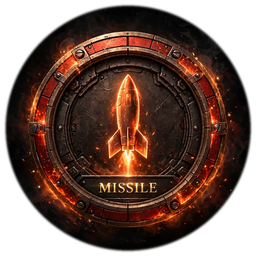
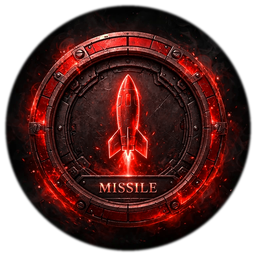
Button colors (Jay, 2026-10-14): Leap TRUE ORANGE, Charge/Missile TRUE RED
1. Leap: the whole emerald medallion palette becomes orange in the leapSkill block — face radial #ffb347/#ff7300/#c25100/#571f00, rim rings #8a3c00 + #ff8c1a, tick ring #ffd9a8, sweep and cooldown arc in orange (SVG strokes #ffa03c), icon glow and ready pulse orange. Gold LEAP label unchanged.
2. Charge + Missile: their faces are baked PNG art, so btn-melee.png and btn-missile.png were hue-mapped from the gold/orange band onto the red band (structure, shading, alpha preserved; originals backed up in ~/workspace/tk-button-art/). Gold/orange SVG arc strokes -> red; a final buttonRecolor style block retints the late-cascade rim rings, glows, ready filters, and both ready-pulse keyframes to red.

Manifest regenerated: 412 assets, build 773fb22cb8, html 0f19f12a11; full harness suite green.

diff --git a/www/index.html b/www/index.html
@@ -5011,24 +5011,24 @@ img{pointer-events:none!important}
 #seasonScreen .tier-cell button{width:auto;margin:0;padding:5px 9px;font-size:11px;white-space:nowrap;border-radius:7px;flex:0 0 auto}
 </style><style id="leapSkill">
 #leapBtn.leap-button{--cd:0%;--cdN:0;position:relative;width:74px;height:74px;border:0;border-radius:50%;padding:0;cursor:pointer;isolation:isolate;color:#eafff5;flex:0 0 auto;
-background:radial-gradient(circle at 50% 32%,#3a5c4a 0%,#1d3426 45%,#0b1810 75%,#050b07 100%);
-box-shadow:0 0 0 1px #05070a,0 0 0 2px #2e5e48,0 0 0 3px #57e6a9,0 0 0 4px #2e5e48,0 0 0 5px #0a0c10,0 9px 20px rgba(0,0,0,.75),0 0 30px rgba(87,230,169,.12),inset 0 1px 3px rgba(220,255,240,.15),inset 0 -4px 9px rgba(0,0,0,.6);
+background:radial-gradient(circle at 50% 32%,#ffb347 0%,#ff7300 45%,#c25100 75%,#571f00 100%);
+box-shadow:0 0 0 1px #05070a,0 0 0 2px #8a3c00,0 0 0 3px #ff8c1a,0 0 0 4px #8a3c00,0 0 0 5px #0a0c10,0 9px 20px rgba(0,0,0,.75),0 0 30px rgba(255,115,0,.16),inset 0 1px 3px rgba(255,230,200,.18),inset 0 -4px 9px rgba(0,0,0,.6);
 overflow:visible}
 #leapBtn.leap-button::before{content:"";position:absolute;inset:5%;border-radius:50%;z-index:4;pointer-events:none;
-background:repeating-conic-gradient(from 0deg,#c8ffe6 0deg 4deg,rgba(0,0,0,0) 4deg 30deg);
+background:repeating-conic-gradient(from 0deg,#ffd9a8 0deg 4deg,rgba(0,0,0,0) 4deg 30deg);
 -webkit-mask:radial-gradient(circle,transparent 88%,#000 88.5%,#000 96%,transparent 96.5%);
 mask:radial-gradient(circle,transparent 88%,#000 88.5%,#000 96%,transparent 96.5%);
 filter:drop-shadow(0 1px 1px rgba(0,0,0,.9))}
 #leapBtn.leap-button::after{content:"";position:absolute;inset:14%;border-radius:50%;z-index:0;pointer-events:none;
-background:repeating-conic-gradient(from 0deg,rgba(87,230,169,.14) 0deg 1deg,transparent 1deg 6deg),radial-gradient(circle,rgba(0,0,0,.5) 0%,transparent 70%);
-border:1px solid rgba(87,230,169,.25);box-shadow:inset 0 0 15px rgba(0,0,0,.8)}
+background:repeating-conic-gradient(from 0deg,rgba(255,140,26,.14) 0deg 1deg,transparent 1deg 6deg),radial-gradient(circle,rgba(0,0,0,.5) 0%,transparent 70%);
+border:1px solid rgba(255,140,26,.28);box-shadow:inset 0 0 15px rgba(0,0,0,.8)}
 #leapBtn .leap-sweep{position:absolute;inset:14%;border-radius:50%;z-index:1;pointer-events:none;
-background:conic-gradient(from 0deg,rgba(125,240,188,.35) 0deg,rgba(125,240,188,.08) 50deg,transparent 90deg);
+background:conic-gradient(from 0deg,rgba(255,170,60,.35) 0deg,rgba(255,170,60,.08) 50deg,transparent 90deg);
 animation:leapSweepSpin 4s linear infinite}
 @keyframes leapSweepSpin{to{transform:rotate(360deg)}}
 #leapBtn .leap-arc{position:absolute;inset:0;width:100%;height:100%;z-index:3;pointer-events:none;transform:rotate(-90deg)}
-#leapBtn .leap-arc-fill{stroke-dasharray:calc(var(--cdN,0)*4.3982) 440;filter:drop-shadow(0 0 3px rgba(125,240,188,.95));transition:stroke-dasharray .2s linear}
-#leapBtn .leap-icon{position:absolute;left:50%;top:38%;transform:translate(-50%,-50%);width:34px;height:34px;z-index:2;opacity:.9;filter:drop-shadow(0 0 6px rgba(87,230,169,.45))}
+#leapBtn .leap-arc-fill{stroke-dasharray:calc(var(--cdN,0)*4.3982) 440;filter:drop-shadow(0 0 3px rgba(255,150,40,.95));transition:stroke-dasharray .2s linear}
+#leapBtn .leap-icon{position:absolute;left:50%;top:38%;transform:translate(-50%,-50%);width:34px;height:34px;z-index:2;opacity:.9;filter:drop-shadow(0 0 6px rgba(255,140,26,.45))}
 #leapBtn .leap-label{position:absolute;left:0;right:0;top:62%;z-index:2;margin:0;text-align:center;font-family:Georgia,'Times New Roman',serif;font-size:11px;font-weight:700;letter-spacing:1.5px;text-indent:0.75px;color:#f0d68a;text-shadow:0 0 8px rgba(240,214,138,.75),0 1px 2px #000,0 -1px 1px rgba(255,255,255,.2)}
 #leapBtn .leap-shine{position:absolute;inset:0;border-radius:50%;z-index:5;pointer-events:none;
 background:linear-gradient(115deg,transparent 40%,rgba(255,255,255,.14) 48%,rgba(255,255,255,.28) 50%,rgba(255,255,255,.14) 52%,transparent 60%);
@@ -5036,9 +5036,9 @@ background-size:250% 250%;animation:leapShine 3.5s ease-in-out infinite}
 @keyframes leapShine{0%,100%{background-position:120% 0}50%{background-position:-20% 0}}
 #leapBtn.leap-button:active{transform:translateY(2px) scale(.97)}
 #leapBtn.leap-button.ready{animation:leapPulse 1.8s ease-in-out infinite}
-@keyframes leapPulse{0%,100%{box-shadow:0 0 0 1px #05070a,0 0 0 2px #2e5e48,0 0 0 3px #57e6a9,0 0 0 4px #2e5e48,0 0 0 5px #0a0c10,0 9px 20px rgba(0,0,0,.75),0 0 30px rgba(87,230,169,.25)}50%{box-shadow:0 0 0 1px #05070a,0 0 0 2px #3d7a5e,0 0 0 3px #c8ffe6,0 0 0 4px #3d7a5e,0 0 0 5px #0a0c10,0 9px 20px rgba(0,0,0,.75),0 0 45px rgba(125,240,188,.55)}}
+@keyframes leapPulse{0%,100%{box-shadow:0 0 0 1px #05070a,0 0 0 2px #8a3c00,0 0 0 3px #ff8c1a,0 0 0 4px #8a3c00,0 0 0 5px #0a0c10,0 9px 20px rgba(0,0,0,.75),0 0 30px rgba(255,115,0,.28)}50%{box-shadow:0 0 0 1px #05070a,0 0 0 2px #a34d00,0 0 0 3px #ffd9a8,0 0 0 4px #a34d00,0 0 0 5px #0a0c10,0 9px 20px rgba(0,0,0,.75),0 0 45px rgba(255,150,40,.55)}}
 #leapBtn.leap-button.ready .leap-sweep{animation-duration:1.5s}
-#leapBtn.leap-button.ready .leap-icon{opacity:1;filter:drop-shadow(0 0 10px rgba(125,240,188,.9))}
+#leapBtn.leap-button.ready .leap-icon{opacity:1;filter:drop-shadow(0 0 10px rgba(255,170,60,.9))}
 #leapBtn.leap-button.cooling{cursor:wait;filter:saturate(.6) brightness(.75)}
 @media(prefers-reduced-motion:reduce){#leapBtn .leap-sweep,#leapBtn .leap-shine,#leapBtn.leap-button.ready{animation:none!important}}
 /* LEAP rig motion: !important animation class — menaceIdle (infinite, on
@@ -5110,6 +5110,18 @@ html.battery-saver #leapBtn .leap-sweep,html.battery-saver #leapBtn .leap-shine,
 #battleScreen .battle-controls #repairBtn .repair-label{font-size:9.5px!important;letter-spacing:.4px!important}
 #battleScreen .battle-controls #repairBtn .repair-cost{font-size:9px!important}
 }
+</style>
+<style id="buttonRecolor">
+/* Button colors (Jay, 2026-10-14): Charge + Missile read TRUE RED. The
+   medallion faces are the recolored btn-melee/btn-missile PNGs; these
+   rules retint the rim rings, glows, and ready pulses that the late
+   cascade blocks left gold/orange. */
+#battleScreen .battle-controls .melee-button{border-color:#ffb3a6!important;box-shadow:0 0 0 1px #0a0302,0 0 0 2px #6e1410,0 0 0 3px #ffb3a6,0 0 0 4px #8c1d14,0 0 0 5px #0a0503,inset 0 2px 3px rgba(255,220,210,.6),inset 0 -6px 10px rgba(0,0,0,.72),inset 0 0 0 1px rgba(0,0,0,.35),0 8px 16px rgba(0,0,0,.78),0 0 28px rgba(255,45,25,.4)!important;filter:drop-shadow(0 0 9px rgba(255,60,35,.5)) drop-shadow(0 3px 6px rgba(0,0,0,.55))!important}
+#battleScreen .battle-controls .missile-button{border-color:#ffb3a6!important;box-shadow:0 0 0 1px #070302,0 0 0 2px #6e1410,0 0 0 3px #ffb3a6,0 0 0 4px #8c1d14,0 0 0 5px #0a0503,inset 0 2px 3px rgba(255,220,210,.58),inset 0 -6px 10px rgba(0,0,0,.72),inset 0 0 0 1px rgba(0,0,0,.35),0 8px 16px rgba(0,0,0,.78),0 0 26px rgba(255,45,25,.38)!important;filter:drop-shadow(0 0 9px rgba(255,60,35,.48)) drop-shadow(0 3px 6px rgba(0,0,0,.55))!important}
+#battleScreen .battle-controls .melee-button.ready{filter:drop-shadow(0 0 17px rgba(255,60,35,.95)) drop-shadow(0 2px 5px rgba(0,0,0,.55))!important}
+#battleScreen .battle-controls .missile-button.ready{filter:drop-shadow(0 0 17px rgba(255,60,35,.95)) drop-shadow(0 2px 5px rgba(0,0,0,.55))!important}
+@keyframes meleePulse67{0%,100%{box-shadow:0 0 0 1px #0a0302,0 0 0 2px #6e1410,0 0 0 3px #ffb3a6,0 0 0 4px #8c1d14,0 0 0 5px #0a0503,inset 0 2px 3px rgba(255,220,210,.6),inset 0 -6px 10px rgba(0,0,0,.72),0 8px 16px rgba(0,0,0,.78),0 0 32px rgba(255,45,25,.48)}50%{box-shadow:0 0 0 1px #0a0302,0 0 0 2px #b03024,0 0 0 3px #ffc9c0,0 0 0 4px #b03024,0 0 0 5px #0a0503,inset 0 2px 3px rgba(255,220,210,.65),inset 0 -6px 10px rgba(0,0,0,.72),0 8px 16px rgba(0,0,0,.78),0 0 50px rgba(255,50,30,.85),0 0 22px rgba(255,120,100,.5)}}
+@keyframes missilePulse67{0%,100%{box-shadow:0 0 0 1px #070302,0 0 0 2px #6e1410,0 0 0 3px #ffb3a6,0 0 0 4px #8c1d14,0 0 0 5px #0a0503,inset 0 2px 3px rgba(255,220,210,.58),inset 0 -6px 10px rgba(0,0,0,.72),0 8px 16px rgba(0,0,0,.78),0 0 30px rgba(255,45,25,.44)}50%{box-shadow:0 0 0 1px #070302,0 0 0 2px #b03024,0 0 0 3px #ffc9c0,0 0 0 4px #b03024,0 0 0 5px #0a0503,inset 0 2px 3px rgba(255,220,210,.62),inset 0 -6px 10px rgba(0,0,0,.72),0 8px 16px rgba(0,0,0,.78),0 0 48px rgba(255,50,30,.85),0 0 20px rgba(255,120,100,.5)}}
 </style>
 
 
@@ -5341,7 +5353,7 @@ html.battery-saver #leapBtn .leap-sweep,html.battery-saver #leapBtn .leap-shine,
   <div id="criticalVignette" class="critical-vignette" aria-hidden="true"></div>
   <div class="battle-controls">
     <div id="playerVitals" class="player-vitals" role="progressbar" aria-label="Your tank health" aria-valuemin="0" aria-valuemax="100" aria-valuenow="100"><div class="player-vitals-head"><span class="player-vitals-title">YOUR TANK <strong id="playerHudName">Bastion</strong></span><span id="playerHpText" class="player-hp-readout">— HP</span></div><div class="player-meter-track"><div id="playerHpGhost" class="player-hp-ghost"></div><div id="playerHpFill" class="player-hp-fill"></div><div id="playerShieldFill" class="player-shield-fill"></div><div class="player-meter-segments" aria-hidden="true"></div><span id="playerShieldText" class="shield-readout" hidden></span><span id="playerDamageBadge" class="player-damage-badge" hidden role="img" aria-label="Tank damaged"><svg viewBox="0 0 24 24" aria-hidden="true"><path d="M12 2l8 3v6c0 5-3.6 9-8 11-4.4-2-8-6-8-11V5z" fill="#2a1708" stroke="#ffe9a8" stroke-width="1.6"/><path d="M9.5 5.5L11.8 10l-3.6 3.8 4.6 1.8L11 20" fill="none" stroke="#ffb52e" stroke-width="1.7" stroke-linecap="round" stroke-linejoin="round"/></svg></span><div class="max-hp-flash"></div></div></div>
-    <div class="control-row"><div class="ctrl-group"><button id="speedBtn" class="ctrl" type="button" data-speed="1" aria-live="polite" aria-label="Game speed, 1 times">Speed ×1</button></div><div class="ability-cluster"><button id="leapBtn" class="leap-button" aria-label="Leap skill"><span class="leap-sweep" aria-hidden="true"></span><svg class="leap-arc" viewBox="0 0 148 148" aria-hidden="true"><circle cx="74" cy="74" r="70" fill="none" stroke="rgba(87,230,169,.18)" stroke-width="5"/><circle class="leap-arc-fill" cx="74" cy="74" r="70" fill="none" stroke="#7df0bc" stroke-width="5" stroke-linecap="round"/></svg><img id="leapIcon" class="leap-icon" alt=""><span class="leap-label">LEAP</span><span class="leap-shine" aria-hidden="true"></span></button><button id="repairBtn" class="repair-button" aria-label="Repair tank" title="Spend Scrap to repair battle damage"><span class="repair-sweep" aria-hidden="true"></span><svg class="repair-arc" viewBox="0 0 148 148" aria-hidden="true"><circle cx="74" cy="74" r="70" fill="none" stroke="rgba(120,240,160,.18)" stroke-width="5"/><circle class="repair-arc-fill" cx="74" cy="74" r="70" fill="none" stroke="#8df5a8" stroke-width="5" stroke-linecap="round"/></svg><img id="repairIcon" class="repair-icon" alt=""><span class="repair-label">REPAIR</span><span id="repairCost" class="repair-cost"></span><span class="repair-shine" aria-hidden="true"></span></button><button id="parryBtn" class="parry-button" aria-label="Parry skill"><span class="parry-sweep" aria-hidden="true"></span><svg class="parry-arc" viewBox="0 0 148 148" aria-hidden="true"><circle cx="74" cy="74" r="70" fill="none" stroke="rgba(111,179,216,.18)" stroke-width="5"/><circle class="parry-arc-fill" cx="74" cy="74" r="70" fill="none" stroke="#8cc8ff" stroke-width="5" stroke-linecap="round"/></svg><span class="parry-label">PARRY</span><span class="parry-shine" aria-hidden="true"></span></button><button id="meleeBtn" class="melee-button" aria-label="Charge attack"><span class="melee-sweep" aria-hidden="true"></span><svg class="melee-arc" viewBox="0 0 148 148" aria-hidden="true"><circle cx="74" cy="74" r="70" fill="none" stroke="rgba(201,143,61,.18)" stroke-width="5"/><circle class="melee-arc-fill" cx="74" cy="74" r="70" fill="none" stroke="#f0b96a" stroke-width="5" stroke-linecap="round"/></svg><span class="melee-label">CHARGE</span><span class="melee-shine" aria-hidden="true"></span></button><button id="missileBtn" class="missile-button" aria-label="Missile strike"><span class="missile-sweep" aria-hidden="true"></span><svg class="missile-arc" viewBox="0 0 148 148" aria-hidden="true"><circle cx="74" cy="74" r="70" fill="none" stroke="rgba(200,80,50,.18)" stroke-width="5"/><circle class="missile-arc-fill" cx="74" cy="74" r="70" fill="none" stroke="#ff8a5c" stroke-width="5" stroke-linecap="round"/></svg><span class="missile-label">MISSILE</span><span class="missile-shine" aria-hidden="true"></span></button><button id="ultBtn" class="ult-button" aria-label="Ultimate skill charging"><span class="ult-sparks" aria-hidden="true"><i></i><i></i><i></i><i></i></span><span class="ult-shockwave" aria-hidden="true"></span><span class="ult-sweep" aria-hidden="true"></span><svg class="ult-arc" viewBox="0 0 148 148" aria-hidden="true"><circle cx="74" cy="74" r="70" fill="none" stroke="rgba(212,175,90,.18)" stroke-width="5"/><circle class="ult-arc-fill" cx="74" cy="74" r="70" fill="none" stroke="#f0d68a" stroke-width="5" stroke-linecap="round"/></svg><span class="ult-label">ULT</span><img id="ultIcon" class="ult-icon" alt=""><span id="ultName" class="ult-name"></span><span id="ultFill" class="ult-fill"></span><span class="ult-shine" aria-hidden="true"></span></button></div></div>
+    <div class="control-row"><div class="ctrl-group"><button id="speedBtn" class="ctrl" type="button" data-speed="1" aria-live="polite" aria-label="Game speed, 1 times">Speed ×1</button></div><div class="ability-cluster"><button id="leapBtn" class="leap-button" aria-label="Leap skill"><span class="leap-sweep" aria-hidden="true"></span><svg class="leap-arc" viewBox="0 0 148 148" aria-hidden="true"><circle cx="74" cy="74" r="70" fill="none" stroke="rgba(255,140,26,.18)" stroke-width="5"/><circle class="leap-arc-fill" cx="74" cy="74" r="70" fill="none" stroke="#ffa03c" stroke-width="5" stroke-linecap="round"/></svg><img id="leapIcon" class="leap-icon" alt=""><span class="leap-label">LEAP</span><span class="leap-shine" aria-hidden="true"></span></button><button id="repairBtn" class="repair-button" aria-label="Repair tank" title="Spend Scrap to repair battle damage"><span class="repair-sweep" aria-hidden="true"></span><svg class="repair-arc" viewBox="0 0 148 148" aria-hidden="true"><circle cx="74" cy="74" r="70" fill="none" stroke="rgba(120,240,160,.18)" stroke-width="5"/><circle class="repair-arc-fill" cx="74" cy="74" r="70" fill="none" stroke="#8df5a8" stroke-width="5" stroke-linecap="round"/></svg><img id="repairIcon" class="repair-icon" alt=""><span class="repair-label">REPAIR</span><span id="repairCost" class="repair-cost"></span><span class="repair-shine" aria-hidden="true"></span></button><button id="parryBtn" class="parry-button" aria-label="Parry skill"><span class="parry-sweep" aria-hidden="true"></span><svg class="parry-arc" viewBox="0 0 148 148" aria-hidden="true"><circle cx="74" cy="74" r="70" fill="none" stroke="rgba(111,179,216,.18)" stroke-width="5"/><circle class="parry-arc-fill" cx="74" cy="74" r="70" fill="none" stroke="#8cc8ff" stroke-width="5" stroke-linecap="round"/></svg><span class="parry-label">PARRY</span><span class="parry-shine" aria-hidden="true"></span></button><button id="meleeBtn" class="melee-button" aria-label="Charge attack"><span class="melee-sweep" aria-hidden="true"></span><svg class="melee-arc" viewBox="0 0 148 148" aria-hidden="true"><circle cx="74" cy="74" r="70" fill="none" stroke="rgba(255,60,40,.18)" stroke-width="5"/><circle class="melee-arc-fill" cx="74" cy="74" r="70" fill="none" stroke="#ff5040" stroke-width="5" stroke-linecap="round"/></svg><span class="melee-label">CHARGE</span><span class="melee-shine" aria-hidden="true"></span></button><button id="missileBtn" class="missile-button" aria-label="Missile strike"><span class="missile-sweep" aria-hidden="true"></span><svg class="missile-arc" viewBox="0 0 148 148" aria-hidden="true"><circle cx="74" cy="74" r="70" fill="none" stroke="rgba(255,50,35,.18)" stroke-width="5"/><circle class="missile-arc-fill" cx="74" cy="74" r="70" fill="none" stroke="#ff4030" stroke-width="5" stroke-linecap="round"/></svg><span class="missile-label">MISSILE</span><span class="missile-shine" aria-hidden="true"></span></button><button id="ultBtn" class="ult-button" aria-label="Ultimate skill charging"><span class="ult-sparks" aria-hidden="true"><i></i><i></i><i></i><i></i></span><span class="ult-shockwave" aria-hidden="true"></span><span class="ult-sweep" aria-hidden="true"></span><svg class="ult-arc" viewBox="0 0 148 148" aria-hidden="true"><circle cx="74" cy="74" r="70" fill="none" stroke="rgba(212,175,90,.18)" stroke-width="5"/><circle class="ult-arc-fill" cx="74" cy="74" r="70" fill="none" stroke="#f0d68a" stroke-width="5" stroke-linecap="round"/></svg><span class="ult-label">ULT</span><img id="ultIcon" class="ult-icon" alt=""><span id="ultName" class="ult-name"></span><span id="ultFill" class="ult-fill"></span><span class="ult-shine" aria-hidden="true"></span></button></div></div>
     <div class="panel-row"><button id="upgradeOpen" class="panel-btn upgrade-btn">Upgrade Tank</button><button id="itemsOpen" class="panel-btn items-btn">Equipment <span id="lootBadge" class="badge">0</span></button><button id="skillsBattleBtn" class="panel-btn skills-btn">Skills</button></div>
     <div class="battle-sub"><div class="auto-chip" data-auto="autoUlt" role="switch" aria-checked="false" aria-label="Auto Ult" tabindex="0"><span class="shine"></span><input id="autoUlt" type="checkbox" aria-label="Auto Ult" hidden><span class="sw" aria-hidden="true"><span class="sw-knob"></span></span><span class="ic" aria-hidden="true"><svg viewBox="0 0 24 24"><path d="M12 1.8l2.3 7.9 7.9 2.3-7.9 2.3L12 22.2l-2.3-7.9L1.8 12l7.9-2.3z"/></svg></span><span class="lb">ULT</span></div><div class="auto-chip" data-auto="autoDef" role="switch" aria-checked="false" aria-label="Auto Parry" tabindex="0"><span class="shine"></span><input id="autoDef" type="checkbox" aria-label="Auto Parry" hidden><span class="sw" aria-hidden="true"><span class="sw-knob"></span></span><span class="ic" aria-hidden="true"><svg viewBox="0 0 24 24"><path d="M12 2 4 5v6c0 5 3.4 9.4 8 11 4.6-1.6 8-6 8-11V5z"/></svg></span><span class="lb">PARRY</span></div><div class="auto-chip" data-auto="autoMissile" role="switch" aria-checked="false" aria-label="Auto Missile" tabindex="0" hidden><span class="shine"></span><input id="autoMissile" type="checkbox" aria-label="Auto Missile" hidden><span class="sw" aria-hidden="true"><span class="sw-knob"></span></span><span class="ic" aria-hidden="true"><svg viewBox="0 0 24 24"><path d="M12 2c3 2 4 6 4 10l3 3-3 1c-1 2-2 4-4 6-2-2-3-4-4-6l-3-1 3-3c0-4 1-8 4-10z"/></svg></span><span class="lb">MISSILE</span></div><div class="auto-chip" data-auto="autoOff" role="switch" aria-checked="false" aria-label="Auto Charge" tabindex="0"><span class="shine"></span><input id="autoOff" type="checkbox" aria-label="Auto Charge" hidden><span class="sw" aria-hidden="true"><span class="sw-knob"></span></span><span class="ic" aria-hidden="true"><svg viewBox="0 0 24 24"><path d="M16.9 3.7l3.4 3.4c.4.4.4 1 0 1.4L9.6 19.2l-4.7 1.3 1.3-4.7L16.9 3.7z"/><path d="M13.6 7l3 3-1.4 1.4-3-3z"/><circle cx="5.4" cy="18.6" r="1.2"/></svg></span><span class="lb">CHARGE</span></div><div class="auto-chip" data-auto="autoAscendBattle" id="autoAscChip" role="switch" aria-checked="false" aria-label="Auto Ascent" tabindex="0" hidden><span class="shine"></span><input id="autoAscendBattle" type="checkbox" aria-label="Auto Ascent" hidden><span class="sw" aria-hidden="true"><span class="sw-knob"></span></span><span class="ic" aria-hidden="true"><svg viewBox="0 0 24 24"><path d="M10 21v-8H8V9H6V5h3V3h6v2h3v4h-2v4h-2v8h-1.5v-4h-1v4H10z"/></svg></span><span class="lb">ASCEND</span></div><span id="dpsText">Auto-fire engaged</span><button id="charBattleBtn" class="secondary" style="padding:5px 9px;font-size:10px">Character</button><div class="battle-menu-cluster" aria-label="Battle utilities"><button id="pauseBtn" class="secondary battle-menu-key" type="button" aria-label="Pause battle">Pause</button></div></div>
   </div>
@@ -5636,8 +5648,8 @@ const assetManifest={
    hand-maintained version tags. On boot the page fetches the manifest with
    cache:'no-store' and hard-reloads once if EITHER the live asset build or the
    live HTML version differs, so a stale cache can never survive a republish. */
-const __BUILD_ID='199db28c40';
-const __HTML_V='b7b3796c93';
+const __BUILD_ID='773fb22cb8';
+const __HTML_V='0f19f12a11';
 const __ASSET_V=__BUILD_ID;
 /* Synchronous snapshot of the actual art files in assets/build-manifest.json. The live
    manifest refresh below replaces this set as soon as it arrives. All player/enemy
